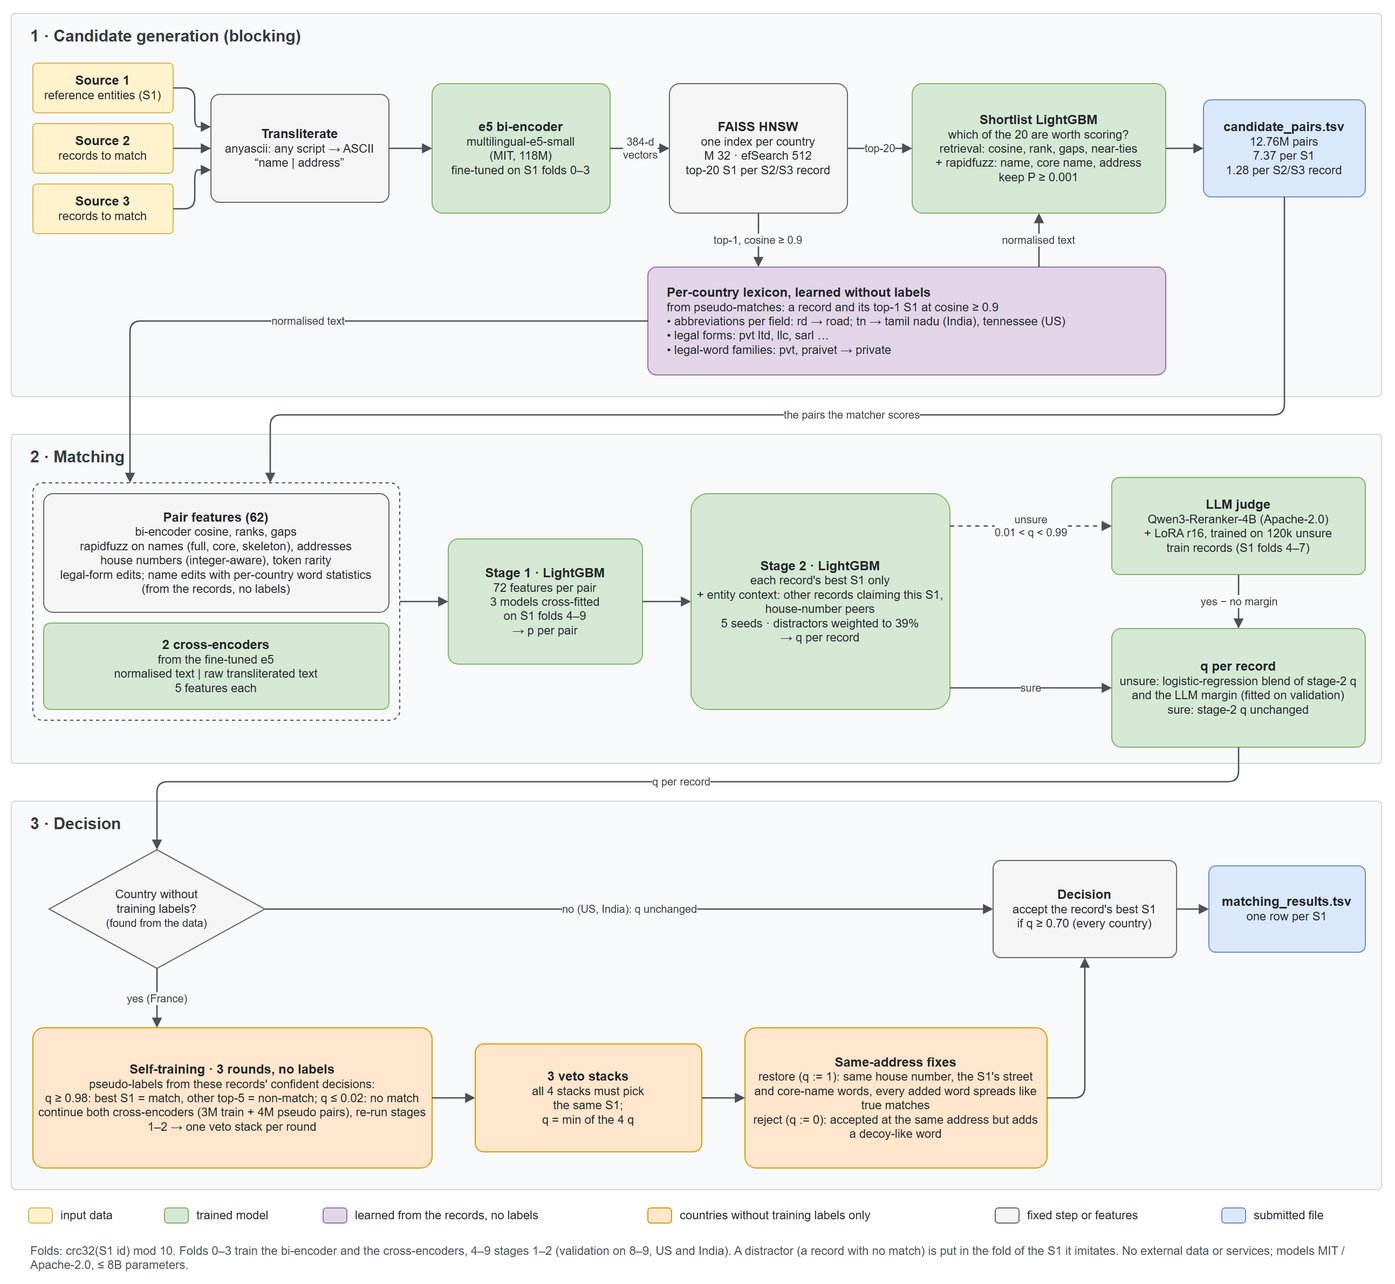
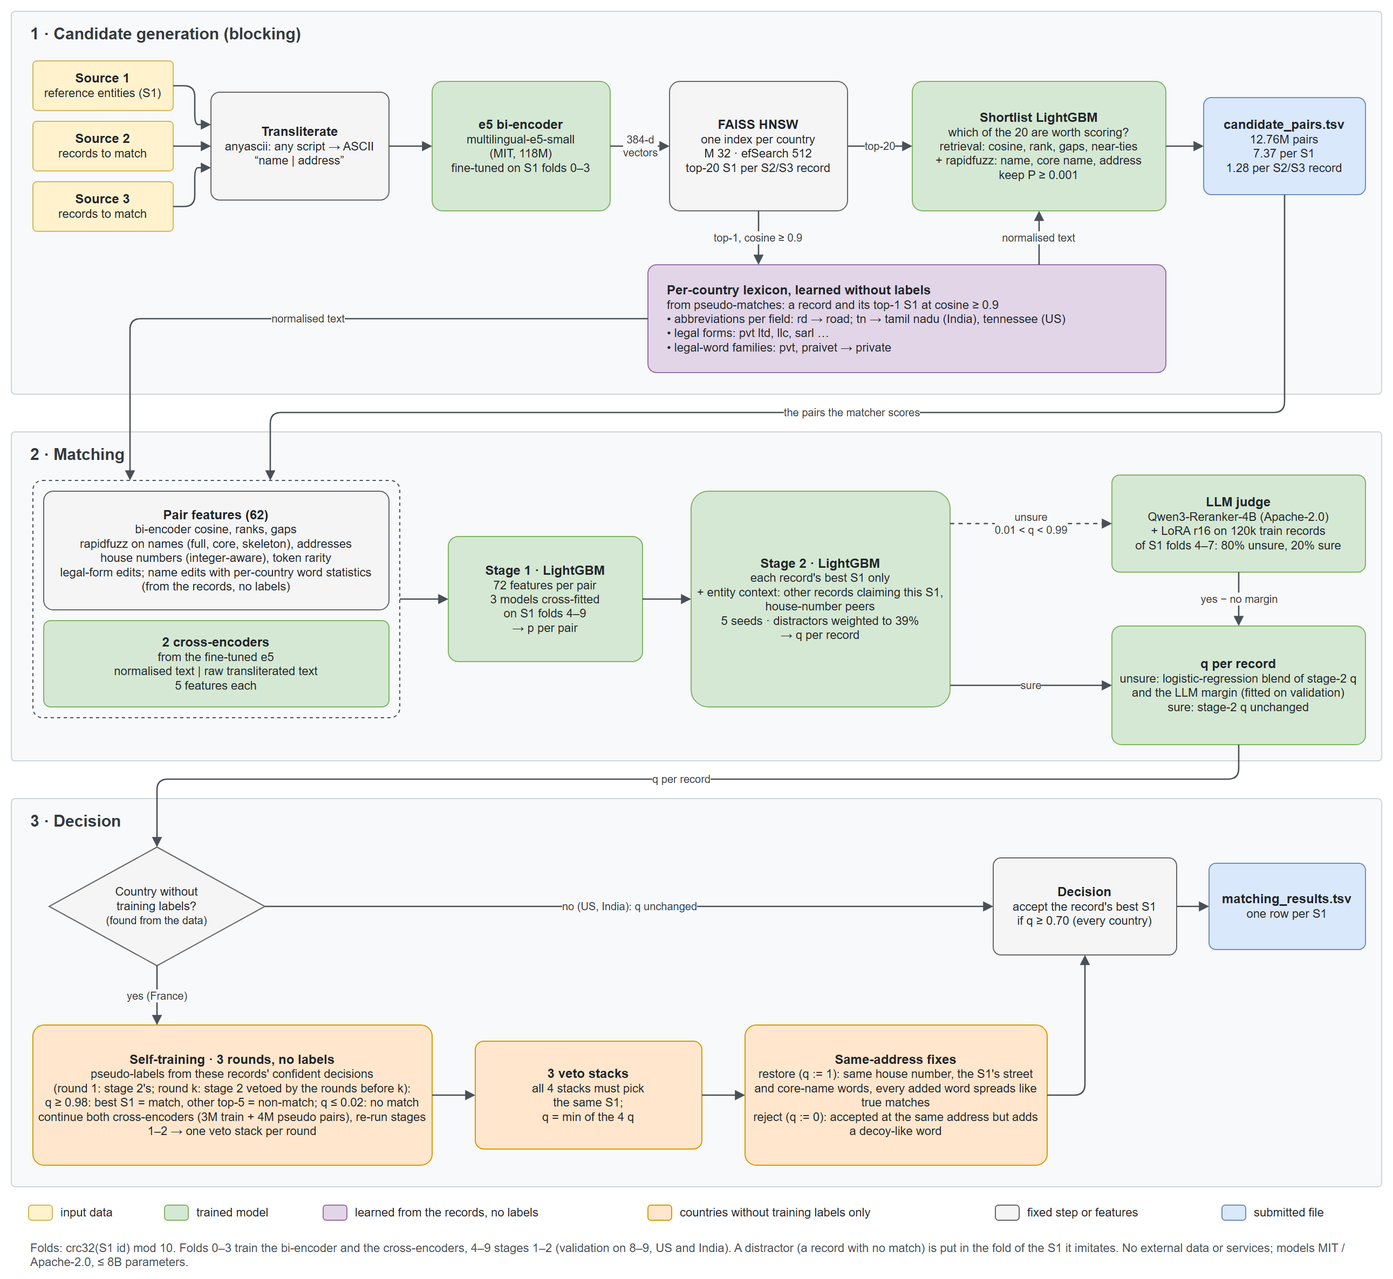
Documentation_template.md filled in (team SSM); pipeline figure: judge's training set, self-training seeds

diff --git a/ber/Documentation_template.md b/ber/Documentation_template.md
@@ -1,0 +1,304 @@
+# ML Challenge 2026: Business Entity Resolution Solution
+
+**Team Name:** SSM  
+**Team Members:** Sahaj Mistry, Sarvesh Nikas, Mohanish Baviskar  
+**Submission Date:** 27 September 2026
+
+---
+
+## 1. Executive Summary
+
+We resolve every Source 2 / Source 3 record on its own: find its best Source 1 (S1) entity in a small learned
+candidate set, then accept or reject that one link with models that also see every other record claiming the same
+entity. Blocking uses a fine-tuned multilingual bi-encoder, HNSW search and a calibrated LightGBM shortlist. It produces
+7.37 candidate pairs per S1 and keeps 99.98% of the true pairs that retrieval finds. Matching stacks two LightGBM
+stages over 62 pair features and two cross-encoders, and a LoRA-tuned 4B reranker judges the unsure records. France has
+no training labels, so it gets three self-training rounds, used only as vetoes, and label-free fixes derived from how
+the data places decoys at house numbers. Macro F0.5 is **0.99282 on US / India validation** and **0.990349 on the
+public leaderboard**.
+
+---
+
+## 2. Methodology
+
+### 2.1 Problem Analysis
+
+We measured these on the provided files (train: US and India; test: US, India and France).
+
+| Finding | Evidence | What we did with it |
+|---|---|---|
+| Each S2/S3 record belongs to **at most one** S1, and country always agrees | 7,638,365 train pairs, no record id reused; 100% of pairs share the country | Solve record by record (one S1 or none); block within a country, which loses no true pair |
+| **The address decides, not the name** | 39% of S1 entities share their normalised name with another S1 (up to 253 "Primary Care Group"); same-name different businesses have address similarity ~33 vs ~94 for true matches | Address, house-number and namesake-count features; entity context in stage 2 |
+| **Distractors are hard negatives**, and test has more of them | 26% of train S2/S3 records match nothing (~1.2 per S1); ~39% in test (estimated from score distributions, a method that recovers the train rate exactly) | Validation weights distractors to 39%, each appearing once (copies inflated validation by 0.0016) |
+| **How decoys are made** | One edit to the S1 name (an added word such as *holdings* / *enterprises* / *participations*, or a type-word, legal-form or first-word swap), with the house number shifted **up** by 1–13 (99.4% of US and 92% of India decoys; true-match number noise goes both ways). One S1's decoys usually share one shifted number | Integer-aware house-number features; stage-2 "peers" at the same number; for France, statistics of where records sit relative to the S1's address (§4) |
+| **True matches are noisy** | Legal form changed ~25%, typo-like edits 16%, word added 9% / dropped 5% / reordered 6%, empty address 4.4%, web-domain names 4.4% (`familybrighthealth.com`), made-up alias names 1.8%, zero-padded or truncated numbers; India S2 names 23% in an Indic script | `anyascii` transliteration; abbreviations and legal forms learned per country; cross-encoders on raw text; integer-aware numbers |
+| **Postcodes are rare** | US ZIP in ~10% of addresses, Indian PIN ~1%, French code postal 0.5% | Not usable as a blocking key, so blocking uses a learned embedding |
+| **France has no labels** | 14.975% of test S1s (its weight in the macro score), 1.43M records to match; no France record in train | Self-training on the pipeline's own confident decisions plus label-free statistics. Country is treated as an open set: countries without labels are found from the data, and the code names no country |
+| **What is left is information-limited** | Most remaining errors are records with an empty address whose name belongs to several S1s (§5) | Precision-first threshold (F0.5) |
+
+### 2.2 Solution Strategy
+
+**Approach Type:** Hybrid: learned blocking (bi-encoder + ANN + calibrated shortlist) → stacked classifiers (LightGBM
++ cross-encoders + LLM judge) → label-free adaptation for the country without labels.  
+**Core Innovation:**
+
+1. **Entity context:** stage 2 re-scores each record's best S1 using the other records that claim the same S1 and the
+   same house number, so decoys compete with the entity's true cluster.
+2. **A country without labels, handled without hand-written rules:** self-training that can only *remove* matches (an
+   AND-veto), and a label-free "census" of decoy placement that decides same-address records. Both were validated on
+   the labelled countries before use.
+
+![Pipeline](pipeline.png)
+
+*Figure: the full pipeline. Green = trained model, purple = learned from the records without labels, orange = applied
+only to countries without training labels, blue = submitted files.*
+
+Principles that held throughout:
+
+- **Validation looks like test.** Folds are `crc32(S1 id) % 10`. Folds 0–3 train the bi-encoder and cross-encoders;
+  4–9 train stages 1–2, and validation uses entity folds 8–9 fitted on 4–7. Distractors are weighted to 39%, and each
+  distractor sits in the fold of the S1 it imitates, so an entity keeps all its decoys.
+- **Nothing is hard-coded to a country.** There are no state tables or word lists. Abbreviations, legal forms and
+  word statistics are learned from the provided records, and no external data or services are used.
+- **Every rule is checked on labelled data first.** One rule that looked right on eyeballed test records turned out to
+  reject 99.6%-true matches on validation (Appendix B).
+
+---
+
+## 3. Candidate Generation (Blocking)
+
+- **Blocking keys used:** no hand-crafted keys. Candidates come from a learned dense key:
+    1. **Normalise:** `anyascii` transliterates every script to ASCII, then lowercase and tokenise. Dotted letters join
+       (`L.L.C.` → `llc`) and letters glued to numbers split off (`N°29` → `ndeg 29`). A **per-country lexicon** is
+       learned without labels from pseudo-matches (a record and its top retrieved S1 at cosine ≥ 0.9). It covers
+       abbreviations (`tn` = Tamil Nadu in India, Tennessee in the US; `r` = rue, `bd` = boulevard in France), legal
+       forms (llc / inc, private / limited plus ~90 misspellings, sarl / sas / sci) and legal-word families
+       (`pvt`, `praivet` → private).
+    2. **Bi-encoder:** `intfloat/multilingual-e5-small` (MIT, 118M), fine-tuned with in-batch negatives on
+       (record, its S1) pairs of S1 folds 0–3, over `name | address`.
+    3. **Search:** FAISS **HNSW** (M 32, efConstruction 200, efSearch 512), one index per country, top-20 S1s per record.
+       It loses ~0.09 points of recall@20 against exact search; IVF lost 1.4 points.
+    4. **Calibrated shortlist:** a LightGBM on 9 retrieval features (cosine, rank, gaps to the best and next, near-tie
+       counts, softmax share) and 6 cheap text similarities (rapidfuzz on name, core name and address, and each one's
+       gap to the record's best). It keeps candidates with **P ≥ 0.001**.
+- **Candidate pairs generated:** **12,760,925** (`candidate_pairs.tsv`) = **7.37 per S1** = **1.28 per S2/S3 record**.
+  By country: US 6.6, India 7.2 and France 10.1 per S1, where the extra comes from France's long tail of namesakes.
+  All within-country pairs would be 6.72 × 10¹²; the reduction ratio is **99.99981%**.
+- **How we ensured true matches were not lost:**
+    - The encoder is trained on the actual noise: transliterated Indic names, web-domain names, legal-form changes and
+      reordered addresses retrieve their S1 where exact keys would not.
+    - Restricting to the same country is lossless, since country always agrees.
+    - The shortlist threshold is set for recall and its cost was measured on held-out folds. Table 3.1 gives candidate
+      recall and table 3.2 the recall / size / F0.5 trade-off.
+
+**Table 3.1: share of matched records whose true S1 is in the candidate set (held-out train folds, US / India)**
+
+| Candidate set | True S1 kept | Candidates per record |
+|---|---|---|
+| exact search, top-20 | 99.51% | 20 |
+| HNSW top-20 | 99.42% | 20 |
+| HNSW top-5 | 98.95% | 5 |
+| gap ≤ 0.1 to the best cosine | 99.35% | 1.99 |
+| **calibrated shortlist + text similarities, P ≥ 0.001 (used)** | **99.39%** | **1.25** |
+
+**Table 3.2: shortlist threshold vs candidate-set size and final F0.5 (validation: a record whose chosen pair leaves the
+set goes unmatched)**
+
+| Blocking | Test pairs per S1 | True pairs kept (val) | Validation F0.5 |
+|---|---|---|---|
+| **P ≥ 0.001 (used)** | **7.36** | **99.98%** | **0.99262** |
+| P ≥ 0.005 | 6.55 | 99.95% | 0.99258 |
+| P ≥ 0.01 | 6.27 | 99.91% | 0.99255 |
+| P ≥ 0.05 | 5.42 | 99.41% | 0.99216 |
+| top 1 per record | 5.60 | 98.71% | 0.99193 |
+
+The shortlist loses 0.03 points of recall against HNSW top-20 while cutting candidates 16×. A tighter set
+(P ≥ 0.01, 6.27 per S1) costs only 0.00007 on US / India, but on France it removes the namesake competitors the matcher
+relies on: 1,110 France matches were lost because their S1 was pruned, most of them ones the matcher was confident
+about. We kept P ≥ 0.001.
+
+---
+
+## 4. Matching Model
+
+**Features used** (72 per pair in stage 1: 45 pair features, 17 edit / number features, 10 cross-encoder features):
+
+- **Name features:**
+    - rapidfuzz ratio, token-set, token-sort, partial and Jaro-Winkler on the normalised full name and on the core name
+      (legal forms removed);
+    - core name without spaces, exact core-name match, and consonant-skeleton similarity;
+    - IDF-weighted word Jaccard, the shared IDF, and the most informative unshared word on each side;
+    - legal-form bits (added, dropped, xor) over learned legal spelling families;
+    - **name edits:** typo-tolerant words added or dropped, the similarity of a swapped word pair, and each added or
+      dropped word's per-country statistics from the split's own records;
+    - **namesake counts:** how many S1 entities and records share this core name.
+- **Address features:**
+    - rapidfuzz ratio, token-set and partial on the normalised address, IDF-weighted word Jaccard and unshared words;
+    - number tokens: set overlap, partial match, first number equal, ZIP equal;
+    - **integer-aware house numbers** (`0012` = `12`): first number equal, the S1's first number found in the record,
+      the smallest difference, Jaccard, and numbers on one side only;
+    - empty-address and no-number flags.
+- **Other:**
+    - bi-encoder cosine, rank within the record, gaps to the best and next candidate;
+    - the S1's rank for this record, and how many records rank it first;
+    - source (S2 / S3), non-ASCII flag, lengths;
+    - two **cross-encoders**, each giving 5 features: score, rank within the record, gap to the next, rank within the
+      S1, and the S1's number of positive claims.
+- **Stage-2 entity context** (on each record's best S1):
+    - stage-1 p, the second-best p and their margin;
+    - the other records claiming the same S1: how many, how many above 0.9 / 0.5 / 0.2, their sum and max, this
+      record's rank, and claims from the same and the other source;
+    - **house-number peers:** the claimants at the same first house number (count, max, sum) and the number of distinct
+      numbers claiming the S1;
+    - 18 key pair features.
+
+**Model type:** a stack of gradient-boosted trees, transformer cross-encoders and an LLM judge.
+
+| Component | Model | Trained on |
+|---|---|---|
+| Cross-encoders (×2) | e5-small initialised from the fine-tuned bi-encoder, one on normalised text and one on raw transliterated text (the raw one keeps punctuation and suffix spellings) | retrieved top-5 pairs of S1 folds 0–3, so wrong-S1 negatives are included |
+| Stage 1 | LightGBM (255 leaves, lr 0.05) on 72 features, cross-fitted in 3 fold groups over folds 4–9 (test = mean of the 3 models) | all candidate pairs |
+| Stage 2 | LightGBM on each record's best pair + entity context; distractors weighted to the test share (39%), 5 seeds averaged | folds 4–9 (validated on 8–9 after fitting on 4–7) |
+| LLM judge | `Qwen/Qwen3-Reranker-4B` (Apache-2.0, 4.0B) + LoRA (r 16, α 32) on the raw name and address text; score = logit(yes) − logit(no) | 120k best pairs of folds 4–7: 80% with an unsure stage-1 p, 20% sure |
+| Judge blend | For unsure records (0.01 < q < 0.99), a logistic regression on [logit q, LLM margin] replaces q | validation rows |
+| Self-training (countries without labels) | both cross-encoders continued on 3M train pairs + 4M pseudo-labelled test pairs (q ≥ 0.98: best S1 = match, the record's other top-5 = non-match; q ≤ 0.02: no match), then stages 1–2 rerun. Three rounds: round 1 is seeded by stage 2, round k by stage 2 vetoed by rounds < k | the pipeline's own confident test decisions (no labels) |
+| Vetoes | a record of such a country is accepted only if all 4 stacks pick the same S1, at the lowest of their scores | |
+| Same-address fixes (countries without labels) | label-free census: each S1 gets a roughly fixed number of decoys, normally at one shifted number, so a decoy placed at the S1's *own* address leaves that shifted cluster short. For every word records add at the S1's address, we compare how many of the S1's records sit at other numbers, between those records and unedited ones (total variation distance TV). **True-like** (TV ≤ 0.10): a structurally matching record (same number and sub-number, the S1's distinctive street words, first and rarest core-name word) adding only such words is restored. **Decoy-like** (TV ≥ 0.20): an accepted same-address record adding one is rejected | the test records' own structure. On US / India validation, TV ≤ 0.10 words are 98.7% / 90.8% true and TV ≥ 0.20 words 22.5% true (India) |
+
+The fixes run only where labels are missing. Where labels exist, the models already get these records right, and the
+same fixes would cost India 0.0024 (checked with labels).
+
+**Threshold selection method:** F0.5 optimised on the test-like validation set above (US / India, entity folds 8–9,
+39% distractors, no copies). We accept a record's best S1 when **q ≥ 0.70**, one threshold for every country (flat
+between 0.65 and 0.70). Separate thresholds per bucket (empty address, namesakes, added / dropped word, source,
+singletons) gained +0.00000, and an expected-F0.5 decision per S1 did worse than the plain threshold.
+
+---
+
+## 5. Results & Error Analysis
+
+- **F_0.5 Score (macro):**
+    - validation (US / India): **0.99282** with the LLM judge; 0.99262 for stage 2 alone;
+    - public leaderboard: **0.990349**.
+    - France has no labels. If US / India score on the leaderboard about as on validation, the leaderboard implies a
+      France F0.5 of roughly 0.98.
+
+**Where validation F0.5 is lost** (stage 2, threshold 0.70; "gain" = the score if that error type were fixed):
+
+| Error type | Rows | Gain if fixed | With empty address | Namesake S1s (core name shared) |
+|---|---|---|---|---|
+| Missed true match (false negative) | 8,829 | +0.00208 | 75% | 78% |
+| Accepted distractor (false positive) | 524 | +0.00054 | 46% | 49% |
+| Accepted the wrong S1 (false positive) | 741 | +0.00044 | 72% | 67% |
+
+- **Common false positives (wrong merges):**
+    - **The wrong namesake.** A record with no address whose name exists for several S1s is given to the wrong one,
+      for example `Bastion, Corp | (no address)` accepted for the Skaneateles, NY entity when it belongs to a Middletown,
+      DE entity with the same name. 72% of wrong-S1 errors have no address.
+    - **Decoys with one small edit and no address to contradict them:** `Dock Hileman + Calhoun LLC | (no address)`;
+      `Arya Memorial Trust Limited` (a legal form added). **Near-address decoys with a one-word name change:**
+      `Bowes Spa | 8011 Ship St` for *Brown Spa, 8000 Ship Street*; `PERIDIQUE LABS LLC` at the S1's exact address.
+    - **Made-up alias names at the S1's street** (`Avigild | Marx Dr, Quincy`), or at an address two S1s share
+      (`Zephkor` belonged to the other one).
+- **Common false negatives (missed matches):**
+    - **Empty-address records of namesake entities** (75% of the misses). With no address, a name shared by several S1s
+      cannot be placed, and F0.5 rewards abstaining. Examples: `Kayley Hernandez, M.D., | (no address)`,
+      `QHR Healthcare | (no address)`, `SUNRISE MARKETING-LTD PVT | (no address)`.
+    - **True matches whose edit looks like a decoy's:** a word added and the number one higher, exactly a decoy's
+      pattern (`Department of Consumer Affairs Ltd | 617 Franklin Pl` for 616 Franklin Place, q 0.31), or words reordered or garbled (`Heritage Company Chemical`, `Primary Ccahr
+      Associates Corp`).
+    - **France, before the fixes (hand review of 180 France entity groups; no labels):** models trained on US / India
+      word priors rejected 67–99% of the records adding *& Fils, & Associés, Groupe, Développement, France* at the
+      S1's own address, which the census and the hand review mark as true-match noise. They also accepted same-address type-word swaps (*Club → École*, *Amicale → Comité*) that are
+      France-specific decoys. The census fixes restored 32,620 records and rejected 11,105, worth about **+0.0032** on
+      the leaderboard.
+
+The largest remaining loss (+0.00208) is information-limited: the missing address cannot be recovered, and per-bucket
+thresholds did not help. For scale, an oracle over all three error types gives about 0.9957.
+
+---
+
+## 6. Conclusion
+
+Treating entity resolution as "pick at most one S1 per record, then judge it with the entity's other claimants" plus a
+calibrated learned blocker gave 0.9928 validation F0.5 with 7.37 candidate pairs per S1. Cross-encoders and a LoRA-tuned
+4B reranker helped when stacked, not alone. For the country without labels, the gains came from label-free structure the
+data generator cannot hide: where decoys sit relative to the S1's address, and self-training used only as a veto. Each
+statistic was checked on the labelled countries first. The main lessons: make validation look like test (distractor
+share, no copies, decoys in their entity's fold), and test every hand-found rule on labelled data before trusting it.
+
+---
+
+## Appendix
+
+### A. Code Artefacts
+
+`code/business_entity_resolution/` holds `src/` (21 modules), `README.md`, `requirements.txt` (pinned) and
+**`reproduce.sh`, the single entry point**. It runs every step in dependency order from the provided
+`student_resource/`, then validates the output with the organisers' validator (`--check-ids`):
+
+```bash
+conda create -n amlc python=3.12 -y && conda activate amlc
+pip install -r requirements.txt
+AMLC_ROOT=/folder/with/student_resource GPU_A=0 GPU_B=1 GPU_C=2 bash reproduce.sh
+# -> $AMLC_ROOT/output/matching_results.tsv and candidate_pairs.tsv
+```
+
+| Step | Module(s) |
+|---|---|
+| Loading, normalisation, folds, the countries without labels (`unlabelled()`) | `common.py`, `harness.py` |
+| Per-country lexicon (no labels) | `lexicon.py` |
+| Bi-encoder fine-tuning; HNSW retrieval | `train_embed.py`, `retrieve.py` |
+| Calibrated shortlist (= `candidate_pairs.tsv`) | `x_shortlist2.py`, `match.py` |
+| Pair features; edit / number features | `match.py`, `x_feats.py` |
+| Cross-encoders (and their self-training) | `x_ce3.py` |
+| Stage 1 (cross-fitted); stage 2 with entity context and peers | `stage1_cv.py`, `x_stage_multi.py`, `stage2.py`, `x_nocopy.py`, `decide.py` |
+| LLM judge and blend | `x_llm.py`, `x_llmstack.py` |
+| Same-address fixes (countries without labels) | `x_anatomy.py`, `wstat.py`, `rule_fr.py`, `x_ddfix.py` |
+| Vetoes, fixes, threshold → the two TSV files | `x_final.py` |
+
+- **Hardware and time:** three A100 80GB GPUs (one works; lanes share it), ~64 CPU cores, ~250 GB RAM; about 8–9 h
+  end to end with three GPUs. Each step logs to `work/logs/<step>.log` and leaves a `.done` marker, so a rerun resumes.
+- **Reproducibility:** seeds are fixed, but GPU training is not bit-deterministic. A from-scratch rerun of the previous version
+  (the same pipeline up to stage 2) matched every stage's validation within 0.0001, and 98.9% of S1 rows equalled its
+  submitted file. It gave 7.72 candidate pairs per S1 (the retrained bi-encoder calibrates slightly differently).
+- **Models:** `intfloat/multilingual-e5-small` (MIT, 118M) and `Qwen/Qwen3-Reranker-4B` (Apache-2.0, 4.0B ≤ 8B), both
+  fine-tuned only on the provided data and run offline. Libraries: LightGBM, FAISS, rapidfuzz, anyascii,
+  PyTorch, transformers, peft.
+- **Compliance:** no external databases, APIs or lookups; no hand-written word lists or country tables; nothing names
+  a country. Statistics on test records are unsupervised, and self-training uses only the pipeline's own confident
+  decisions (allowed by the organisers' Q&A).
+
+### B. Additional Results
+
+**Leaderboard progression** (each row adds one change; validation = US / India)
+
+| Version | Change | Validation | Public LB |
+|---|---|---|---|
+| v4 | pair features + stage 1 + entity-context stage 2 | 0.9886¹ | 0.9672 |
+| v7w | + cross-encoders; distractors weighted, not copied | 0.99240 | 0.98264 |
+| v9p | HNSW + calibrated text shortlist, learned lexicon, house-number peers, 5 seeds | 0.99277 | 0.98269 |
+| v9p_frand | + France self-training veto, round 1 | = | 0.98474 |
+| v10_fr2 | distractors in their imitated S1's fold; veto round 2 | 0.99262² | 0.98594 |
+| v10_fr3 | veto round 3 | = | 0.98608 |
+| v10_fr3_llm | + LLM judge | 0.99282² | 0.98707 |
+| v10_fr3_llm_dd | + same-address census fixes | = | 0.99028 |
+| **submitted** | France rounds seeded from the main stack itself; judge on every unsure record | **0.99282²** | **0.990349** |
+
+¹ With duplicated distractors (inflated). ² The harder validation set (each distractor in its S1's fold).
+
+From v9p to the submitted file the leaderboard rose by +0.0077 while US / India validation barely moved, so nearly all
+of it came from France. France is 15% of the S1s, so a France-only change of Δ on the leaderboard is Δ / 0.15 on France.
+
+**Tried and dropped** (measured):
+
+- A hand-written "shifted house number shared with another claimant" veto: it looked right on test samples, but on
+  validation the rows it rejected were 99.6% true (US 0.99277 → 0.99074).
+- Taking France's decisions from the self-trained stack instead of using it as a veto: its new rejections were ~80%
+  decoys, its new acceptances ~45% decoys (confirmation bias).
+- Word-edit log-likelihood features (+0.00001), signed house-number shift features (+0.00003), a third cross-encoder
+  (bge-reranker-v2-m3, +0.00016; not in the final pipeline), LightGBM + XGBoost judge ensembles (~0).
+- A zero-shot 7B LLM judge (AUC 0.59 on unsure pairs); the LoRA fine-tune is what makes the judge work (AUC 0.84, and
+  complementary to stage 2's 0.94).
+- Continuing the LLM on France pseudo-labels: it copied the vetoes' decisions.
+- A tighter candidate set (P ≥ 0.01): −15% pairs, but France lost more than validation showed (§3).
